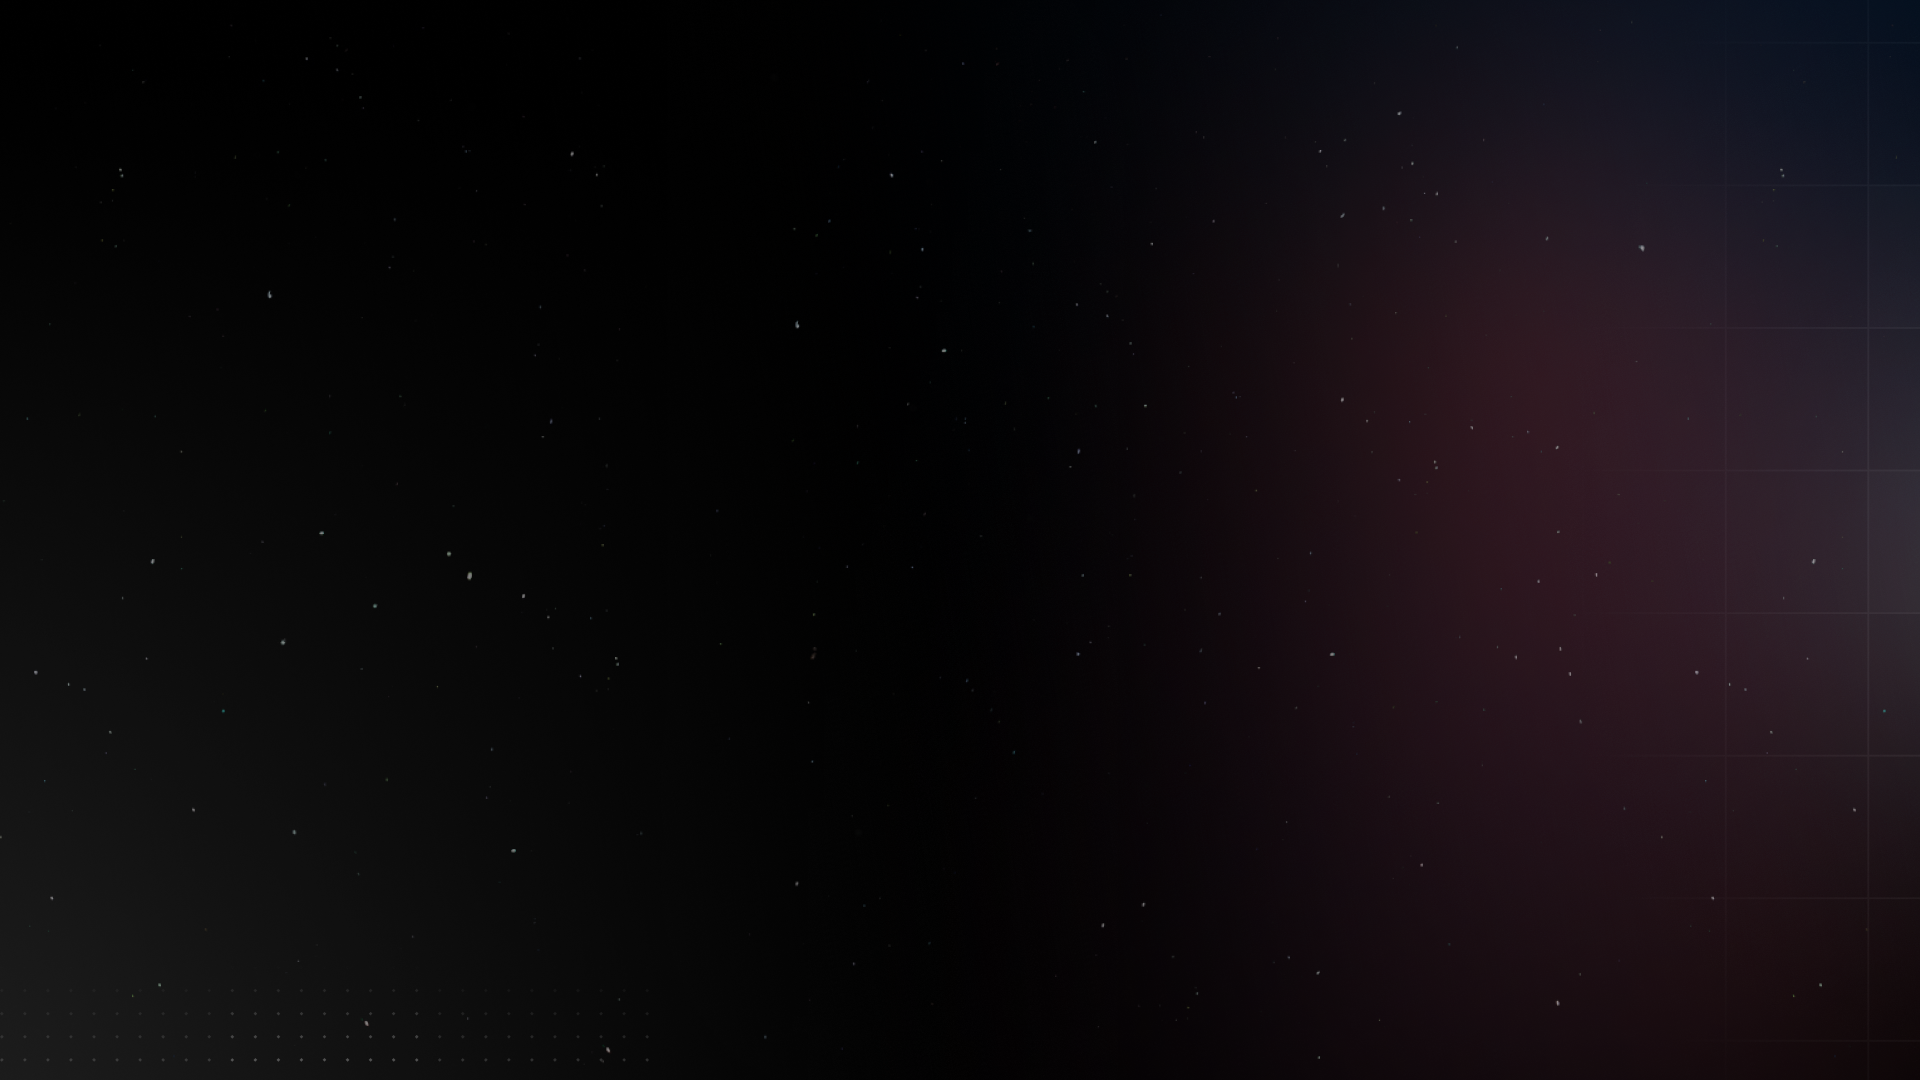
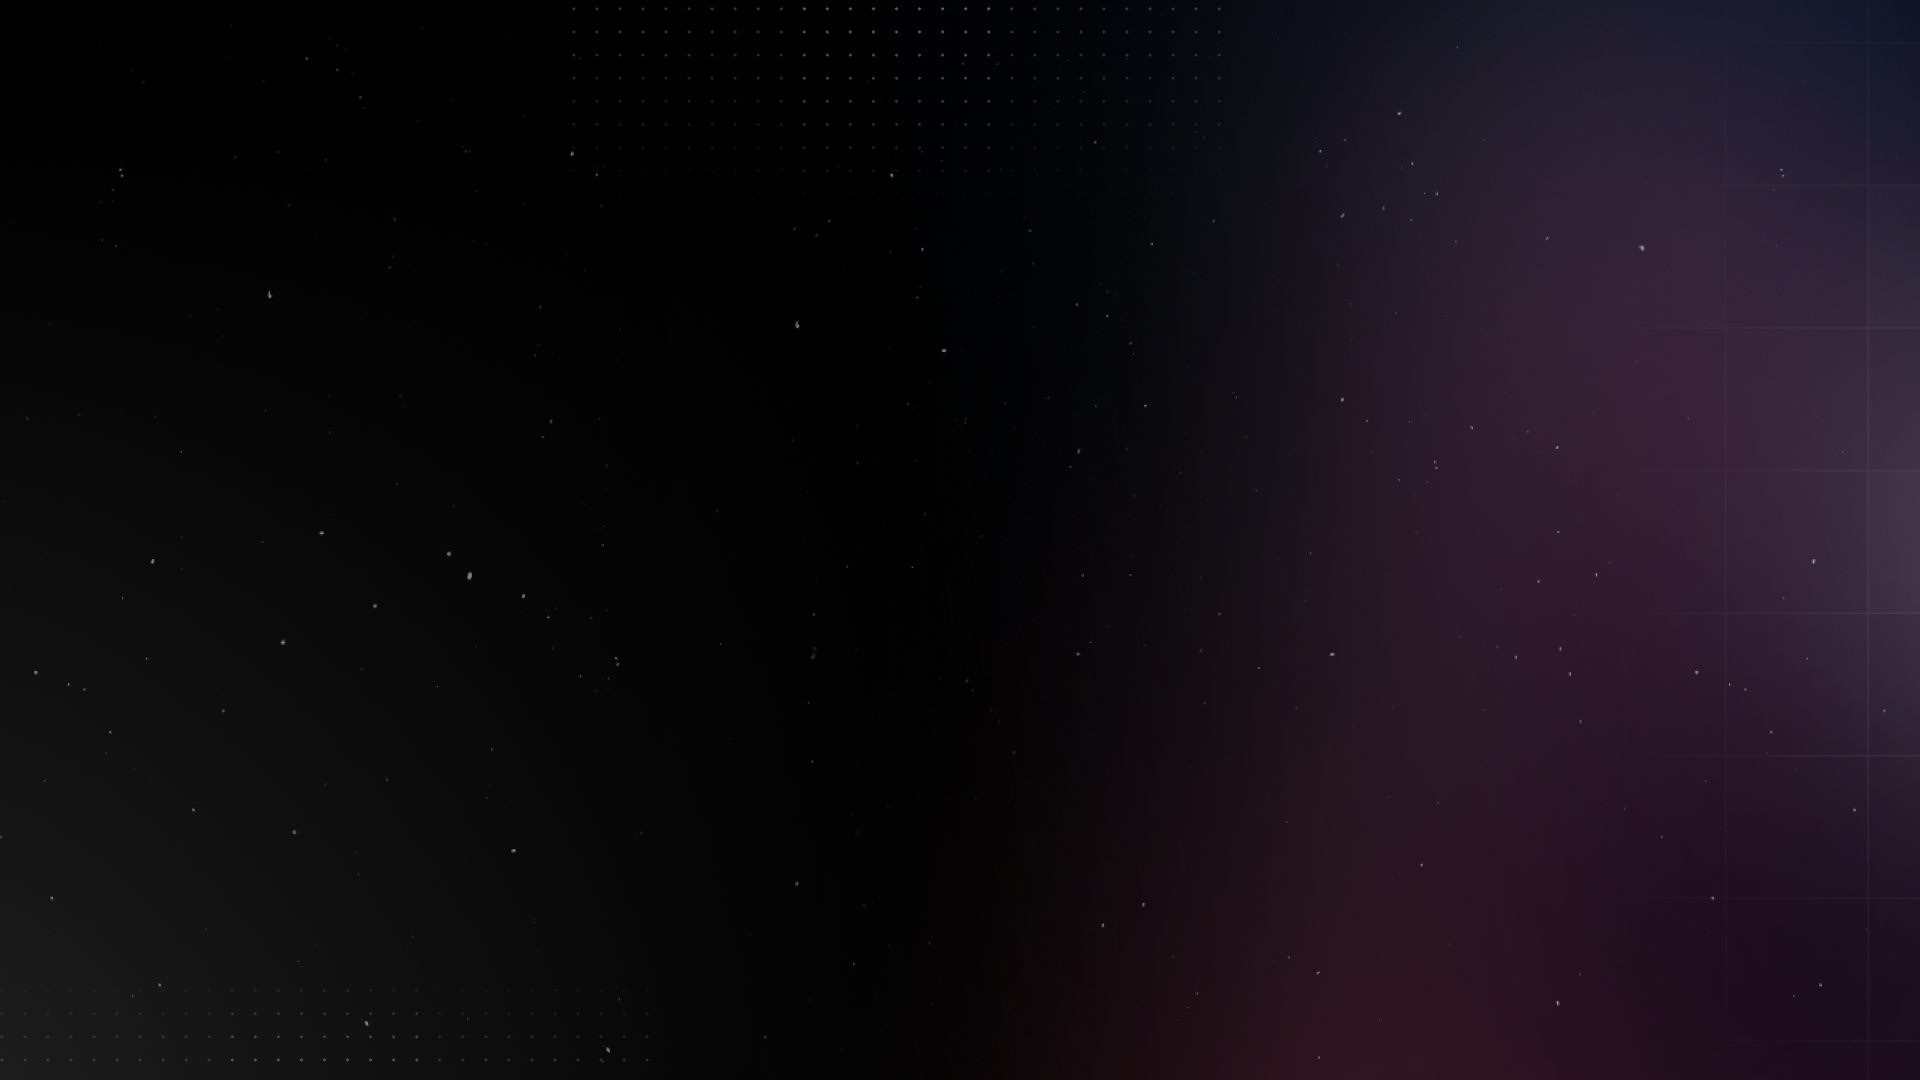
Fixing some shits

Changed region(s): [[0.5938, 0.8861, 0.7812, 1.0]]

diff --git a/styles/LeaderBoardPage.css b/styles/LeaderBoardPage.css
@@ -153,6 +153,8 @@ height: 1px;
   overflow: hidden;
   transform: rotate(45deg);
   border-radius: 17%; 
+  filter: drop-shadow(0 0 1.95rem rgb(114, 114, 114));
+
 }
 
 .diamond-wrapper img {
@@ -169,6 +171,7 @@ height: 1px;
   justify-content: center;
   align-items: center;
   gap: 1px;
+  transform: translateY(-6rem);
 }
 
 .VectorIconLeft {
@@ -181,4 +184,12 @@ height: 1px;
   width: 33px;
   height: 43px;
   transform: translateY(-3px);
+}
+
+.BottomSteamLine {
+  position: absolute;
+}
+
+.SteamUserNamePlayer {
+  
 }

diff --git a/index.html b/index.html
@@ -479,6 +479,12 @@
                             </div>
                         </div>
                         <img class="VectorIconRight" src="./imgs/SilverVecRight.png" alt="">
+                        <img class="BottomSteamLine" src="./imgs/BottomSteamLine.svg" alt="">
+                    </div>
+
+                    <div class="SteamUserNamePlayer">
+                        <h1>CanXRp</h1>
+                        <p>Level <span>254</span></p>
                     </div>
 
 
